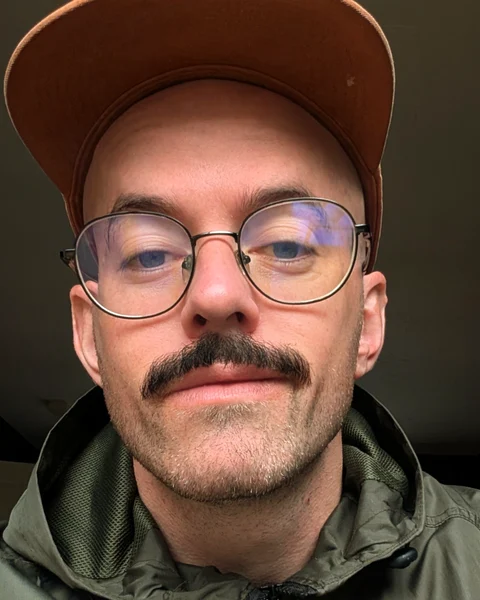
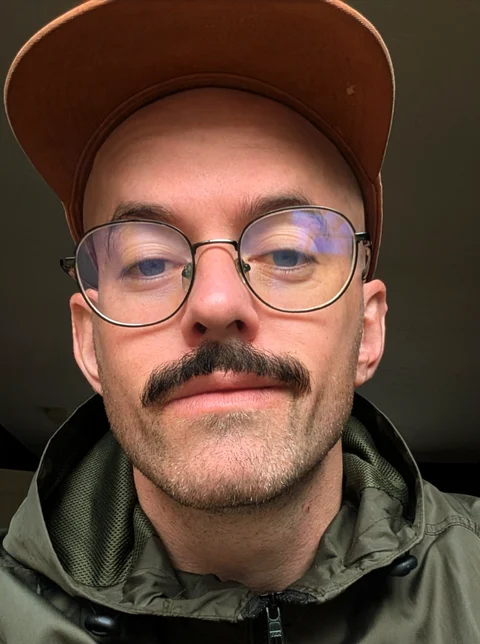
About: bigger portrait card, photo re-cropped so the cap isn't cut off
Claude-Session: https://claude.ai/code/session_017A3jqbAQCYiZx7wCnKYi7q

diff --git a/assets/css/about.css b/assets/css/about.css
@@ -43,7 +43,7 @@ a.ab-piece:hover, a.ab-piece:focus-visible { rotate: 0deg; scale: 1.05; z-index:
 
 /* Name badge until John adds a portrait */
 .ab-portrait {
-  margin: 0; z-index: 3; aspect-ratio: 4 / 5; border-radius: 26px; overflow: hidden;
+  margin: 0; z-index: 3; aspect-ratio: auto; border-radius: 26px; overflow: hidden;
   display: grid; grid-template-rows: 1fr auto;
   background: #fff; color: #18181a; border: 1px solid rgb(24 24 26 / 0.08);
   box-shadow: 0 2px 4px rgb(20 20 30 / 0.06), 0 40px 70px -30px rgb(20 20 30 / 0.5);
@@ -57,7 +57,7 @@ a.ab-piece:hover, a.ab-piece:focus-visible { rotate: 0deg; scale: 1.05; z-index:
   padding: 0 0.08em; border-radius: 0.12em 0.2em 0.14em 0.22em;
   background: linear-gradient(100deg, transparent 2%, var(--hl-pink) 6%, var(--hl-pink) 94%, transparent 98%) 0 62% / 100% 70% no-repeat;
 }
-.ab-portrait__img { display: block; width: 100%; height: 100%; min-height: 0; object-fit: cover; object-position: 50% 18%; }
+.ab-portrait__img { display: block; width: 100%; height: auto; aspect-ratio: 864 / 1160; object-fit: cover; object-position: 50% 0; }
 .ab-portrait figcaption { display: grid; gap: 2px; padding: 14px 18px 16px; border-top: 1px dashed rgb(24 24 26 / 0.14); }
 .ab-portrait figcaption b { font-size: 16px; font-weight: 600; letter-spacing: -0.02em; }
 .ab-portrait figcaption span { font-size: 12.5px; color: #6b6b70; }

diff --git a/projects/about.html b/projects/about.html
@@ -110,8 +110,8 @@
 
         <div class="ab-collage" data-ab-collage>
           <svg class="ab-scribble" viewBox="0 0 600 600" preserveAspectRatio="none" aria-hidden="true"><path d="M90 170 Q 300 90 520 120 Q 300 230 70 300 Q 320 250 540 280 Q 330 380 110 450 Q 330 420 500 470"/></svg>
-          <figure class="ab-piece ab-portrait" style="--x:20%;--y:4%;--w:60%;--r:-3deg">
-            <img class="ab-portrait__img" src="../assets/about/john.webp" srcset="../assets/about/john-480.webp 480w, ../assets/about/john.webp 864w" sizes="(max-width: 700px) 60vw, 360px" width="864" height="1080" alt="John Bell, in glasses and a tan cap">
+          <figure class="ab-piece ab-portrait" style="--x:14%;--y:2%;--w:72%;--r:-3deg">
+            <img class="ab-portrait__img" src="../assets/about/john.webp" srcset="../assets/about/john-480.webp 480w, ../assets/about/john.webp 864w" sizes="(max-width: 700px) 60vw, 360px" width="864" height="1160" alt="John Bell, in glasses and a tan cap">
             <figcaption><b>John Bell</b><span>Graphic &amp; web designer</span></figcaption>
           </figure>
         </div>
